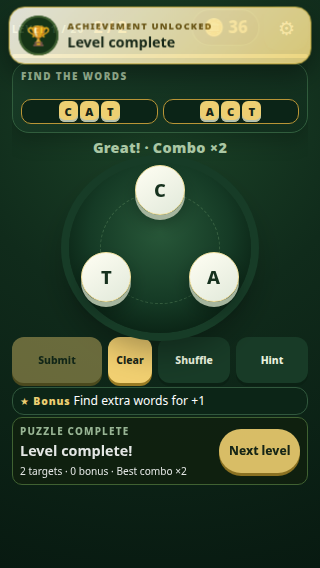
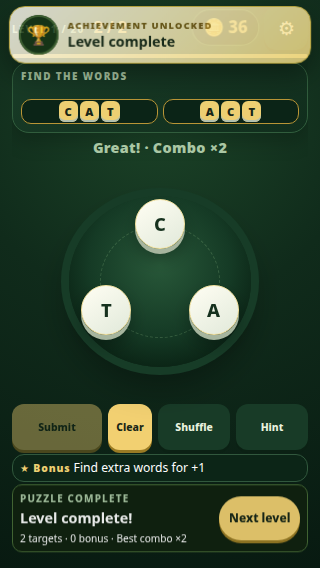
Balance gameplay vertically across phone heights

diff --git a/src/styles/app.css b/src/styles/app.css
@@ -25,3 +25,5 @@ header{min-height:44px}.level-mark{gap:9px}.level-mark strong{font-size:1rem;col
 .sheet-backdrop{background:#031008b8}.sheet{background:var(--paper);border-radius:20px 20px 0 0}.sheet::before{content:'';display:block;width:34px;height:4px;margin:-7px auto 10px;border-radius:9px;background:#b8c5b3}.hint-choice,.setting-toggle,.settings-list .import{border-radius:13px}
 @media (max-height:600px) and (max-width:799px){.app-shell{padding-top:6px;gap:4px}.app-shell>main{gap:4px}.answers{padding:8px;grid-auto-rows:25px;gap:3px 5px}.slot{min-height:25px}.slot span{height:21px}.wheel{max-height:30dvh}.candidate{height:22px;min-height:22px;line-height:22px}.bonus{min-height:27px;padding:4px 7px}}
 @media (min-height:601px) and (max-height:660px) and (max-width:799px){.app-shell{padding-top:7px;padding-bottom:7px;gap:4px}.app-shell>main{gap:4px}.answers{padding:8px;grid-auto-rows:26px;gap:3px 5px}.slot{min-height:26px}.slot span{height:22px}.candidate{height:23px;min-height:23px;line-height:23px;font-size:1rem}.wheel{max-width:29dvh;max-height:29dvh}.bonus{min-height:26px;padding:3px 7px}.complete{min-height:44px;padding:2px 6px}.complete h2{margin:0;font-size:.82rem}.complete small{font-size:.65rem}}
+/* Let the wheel absorb spare vertical room so gameplay fills tall phone viewports without stretching controls. */
+.app-shell>main>.wheel{margin:auto}
